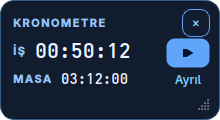
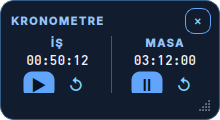
Add split mini controls and desk reset

diff --git a/mola/app.py b/mola/app.py
@@ -70,38 +70,73 @@ class MiniWindow(QWidget):
         self.surface = QFrame()
         self.surface.setObjectName("miniSurface")
         window_layout.addWidget(self.surface)
-        layout = QVBoxLayout(self.surface); layout.setContentsMargins(12,8,9,8); layout.setSpacing(2)
-        row = QHBoxLayout()
+        layout = QVBoxLayout(self.surface); layout.setContentsMargins(10,7,8,7); layout.setSpacing(2)
+        row = QHBoxLayout(); row.setSpacing(4)
         self.mode = label("KRONOMETRE", "eyebrow"); row.addWidget(self.mode); row.addStretch()
         close = button("×", self.close, "link"); close.setAccessibleName("Yüzen pencereyi kapat")
         close.setToolTip("Yalnızca mini pencereyi kapat; sayaç çalışmaya devam eder")
-        close.setFixedSize(28, 28)
+        close.setFixedSize(26, 26)
         row.addWidget(close); layout.addLayout(row)
-        work_row = QHBoxLayout(); work_row.setSpacing(7)
-        self.work_label=label("ÇALIŞMA", "eyebrow"); work_row.addWidget(self.work_label)
-        self.time = label("00:00:00"); self.time.setStyleSheet("font-family: 'Adwaita Mono'; font-size: 28px; font-weight: 600;")
-        work_row.addWidget(self.time,1)
+
+        counters=QHBoxLayout(); counters.setSpacing(7)
+        self.work_panel=QWidget(); work=QVBoxLayout(self.work_panel)
+        work.setContentsMargins(0,0,0,0); work.setSpacing(2)
+        self.work_label=label("ÇALIŞMA", "eyebrow")
+        self.work_label.setAlignment(Qt.AlignmentFlag.AlignCenter); work.addWidget(self.work_label)
+        self.time = label("00:00:00")
+        self.time.setAlignment(Qt.AlignmentFlag.AlignCenter)
+        self.time.setStyleSheet("font-family: 'Adwaita Mono'; font-size: 18px; font-weight: 600;")
+        work.addWidget(self.time)
+        work_actions=QHBoxLayout(); work_actions.setSpacing(5); work_actions.addStretch()
         self.toggle = button("▶", owner.toggle_running, "primary")
         self.toggle.setAccessibleName("Çalışma sayacını başlat veya duraklat")
-        self.toggle.setFixedHeight(30); work_row.addWidget(self.toggle)
-        layout.addLayout(work_row)
-        desk_row = QHBoxLayout(); desk_row.setSpacing(7)
-        self.desk_label=label("MASA", "eyebrow"); desk_row.addWidget(self.desk_label)
-        self.desk_time = label("00:00:00"); self.desk_time.setStyleSheet("font-family: 'Adwaita Mono'; font-size: 18px; font-weight: 600;")
-        desk_row.addWidget(self.desk_time,1)
-        self.desk_toggle = button("Masadayım", owner.toggle_desk, "link")
+        self.toggle.setToolTip("Çalışma sayacını başlat veya duraklat")
+        self.toggle.setFixedSize(32,28); work_actions.addWidget(self.toggle)
+        self.work_reset = button("↺", owner.reset_current, "link")
+        self.work_reset.setAccessibleName("Çalışma sayacını sıfırla")
+        self.work_reset.setToolTip("Seçili çalışma sayacını sıfırla")
+        self.work_reset.setFixedSize(32,28); work_actions.addWidget(self.work_reset)
+        work_actions.addStretch(); work.addLayout(work_actions)
+        counters.addWidget(self.work_panel,1)
+
+        self.divider=QFrame(); self.divider.setObjectName("miniDivider")
+        self.divider.setFrameShape(QFrame.Shape.VLine); self.divider.setFixedWidth(1)
+        counters.addWidget(self.divider)
+
+        self.desk_panel=QWidget(); desk=QVBoxLayout(self.desk_panel)
+        desk.setContentsMargins(0,0,0,0); desk.setSpacing(2)
+        self.desk_label=label("MASA BAŞI", "eyebrow")
+        self.desk_label.setAlignment(Qt.AlignmentFlag.AlignCenter); desk.addWidget(self.desk_label)
+        self.desk_time = label("00:00:00")
+        self.desk_time.setAlignment(Qt.AlignmentFlag.AlignCenter)
+        self.desk_time.setStyleSheet("font-family: 'Adwaita Mono'; font-size: 18px; font-weight: 600;")
+        desk.addWidget(self.desk_time)
+        desk_actions=QHBoxLayout(); desk_actions.setSpacing(5); desk_actions.addStretch()
+        self.desk_toggle = button("▶", owner.toggle_desk, "primary")
         self.desk_toggle.setAccessibleName("Masa başı sayacını başlat veya duraklat")
-        self.desk_toggle.setFixedHeight(28); desk_row.addWidget(self.desk_toggle)
-        layout.addLayout(desk_row)
+        self.desk_toggle.setToolTip("Masa başı sayacını başlat veya duraklat")
+        self.desk_toggle.setFixedSize(32,28); desk_actions.addWidget(self.desk_toggle)
+        self.desk_reset = button("↺", owner.reset_desk, "link")
+        self.desk_reset.setAccessibleName("Masa başı sayacını sıfırla")
+        self.desk_reset.setToolTip("Yalnızca görünen masa başı süresini sıfırla")
+        self.desk_reset.setFixedSize(32,28); desk_actions.addWidget(self.desk_reset)
+        for control in (self.toggle,self.work_reset,self.desk_toggle,self.desk_reset):
+            control.setStyleSheet("padding: 0; font-size: 16px;")
+        desk_actions.addStretch(); desk.addLayout(desk_actions)
+        counters.addWidget(self.desk_panel,1)
+        layout.addLayout(counters,1)
+
         row = QHBoxLayout()
-        self.state = label("Hazır", "muted"); row.addWidget(self.state); row.addStretch()
+        self.state = label("Hazır", "muted"); self.state.hide(); row.addStretch()
         self.grip = QSizeGrip(self.surface)
         self.grip.setAccessibleName("Mini pencereyi boyutlandır")
         self.grip.setToolTip("Küçültmek veya büyütmek için sürükle")
         row.addWidget(self.grip, 0, Qt.AlignmentFlag.AlignRight | Qt.AlignmentFlag.AlignBottom)
         layout.addLayout(row)
         self.setToolTip("Mini sayaç diğer uygulamaların üstünde kalır. Boş bir alandan sürükleyerek taşı.")
-        for draggable in (self.surface, self.mode, self.time, self.desk_time, self.state):
+        for draggable in (self.surface, self.mode, self.work_panel, self.work_label,
+                          self.time, self.desk_panel, self.desk_label,
+                          self.desk_time, self.divider):
             draggable.installEventFilter(self)
         self.resize(*initial_size)
 
@@ -115,19 +150,11 @@ class MiniWindow(QWidget):
 
     def resizeEvent(self, event):
         width = event.size().width()
-        font_size = 20 if width < 260 else 24 if width < 340 else 28
-        self.time.setStyleSheet(
-            f"font-family: 'Adwaita Mono'; font-size: {font_size}px; font-weight: 600;"
-        )
-        desk_font = 14 if width < 260 else 16 if width < 340 else 18
-        self.desk_time.setStyleSheet(
-            f"font-family: 'Adwaita Mono'; font-size: {desk_font}px; font-weight: 600;"
-        )
-        self.state.setVisible(width >= 275 and event.size().height() >= 155)
-        compact = width < 260
-        self.work_label.setText("İŞ" if compact else "ÇALIŞMA")
-        self.toggle.setFixedWidth(44 if compact else 105)
-        self.desk_toggle.setFixedWidth(44 if compact else 105)
+        font_size = 13 if width < 260 else 16 if width < 380 else 20
+        timer_style=f"font-family: 'Adwaita Mono'; font-size: {font_size}px; font-weight: 600;"
+        self.time.setStyleSheet(timer_style); self.desk_time.setStyleSheet(timer_style)
+        self.work_label.setText("İŞ" if width < 250 else "ÇALIŞMA")
+        self.desk_label.setText("MASA" if width < 250 else "MASA BAŞI")
         self.owner.preferences["mini_size"] = [event.size().width(), event.size().height()]
         super().resizeEvent(event)
 
@@ -141,11 +168,14 @@ class MiniWindow(QWidget):
         self.time.setText(clock_text(e.stopwatch_elapsed if e.mode=="stopwatch" else math.ceil(e.timer_remaining)))
         self.desk_time.setText(clock_text(e.desk_elapsed))
         self.state.setText("Mola zamanı" if e.state=="break" else "Çalışıyorsun" if e.state=="running" else "Duraklatıldı" if e.state=="paused" else "Başlamaya hazır")
-        wide = self.width() >= 330
-        self.toggle.setText(("Ⅱ  Duraklat" if e.state=="running" else "▶  Başlat") if wide else ("Ⅱ" if e.state=="running" else "▶"))
-        self.desk_toggle.setText(("Masadan ayrıl" if e.desk_active else "Masadayım") if wide else ("Ayrıl" if e.desk_active else "Masa"))
+        self.toggle.setText("Ⅱ" if e.state=="running" else "▶")
+        self.toggle.setToolTip("Çalışmayı duraklat" if e.state=="running" else "Çalışmayı başlat")
+        self.desk_toggle.setText("Ⅱ" if e.desk_active else "▶")
+        self.desk_toggle.setToolTip("Masadan ayrıl" if e.desk_active else "Masa başı sayacını başlat")
         self.toggle.setEnabled(e.state!="break")
         self.desk_toggle.setEnabled(e.state!="break")
+        self.work_reset.setEnabled(e.state!="break")
+        self.desk_reset.setEnabled(e.state!="break" and e.desk_elapsed>0)
 
 
 class SettingsWidget(QWidget):
@@ -318,7 +348,11 @@ class Window(QMainWindow):
         desk=QVBoxLayout(); desk.addWidget(label("MASA BAŞI", "eyebrow")); self.desk_time=label("00:00:00", "sectionTitle"); desk.addWidget(self.desk_time)
         self.desk_button=button("Masadayım",self.toggle_desk,"link")
         self.desk_button.setToolTip("Masa başı hatırlatmalarını çalışma sayacından bağımsız başlat veya durdur")
-        desk.addWidget(self.desk_button,alignment=Qt.AlignmentFlag.AlignLeft)
+        self.desk_reset=button("Sıfırla",self.reset_desk,"link")
+        self.desk_reset.setToolTip("Yalnızca görünen masa başı süresini sıfırla; hatırlatma ritmi korunur")
+        desk_actions=QHBoxLayout(); desk_actions.setSpacing(2)
+        desk_actions.addWidget(self.desk_button); desk_actions.addWidget(self.desk_reset)
+        desk.addLayout(desk_actions)
         stats.addLayout(left,2); stats.addLayout(middle,1); stats.addLayout(desk,2); box.addLayout(stats)
         columns.addWidget(focus,3)
         right=QVBoxLayout(); right.setSpacing(16)
@@ -414,6 +448,7 @@ class Window(QMainWindow):
         self.desk_time.setText(clock_text(e.desk_elapsed))
         self.desk_button.setText("Masadan ayrıl" if e.desk_active else "Masadayım")
         self.desk_button.setEnabled(e.state!="break")
+        self.desk_reset.setEnabled(e.state!="break" and e.desk_elapsed>0)
         self.today.setText(human_time(e.today_work)); self.breaks.setText(str(e.break_count))
         self.goal_remaining.setText(clock_text(math.ceil(e.remaining_goal)) if e.goal_enabled else human_time(math.ceil(e.remaining_goal/60)*60))
         self.goal_caption.setText("hedefin tamamlandı" if e.remaining_goal<=0 else "hedefine kalan süre / "+human_time(e.goal_seconds))
@@ -440,6 +475,10 @@ class Window(QMainWindow):
 
     def toggle_desk(self):
         self.engine.toggle_desk()
+        self.pulse(); self.save()
+
+    def reset_desk(self):
+        self.engine.reset_desk_elapsed()
         self.pulse(); self.save()
 
     def change_mode(self,mode):

diff --git a/tests/test_integration.py b/tests/test_integration.py
@@ -9,7 +9,7 @@ from unittest.mock import Mock, patch
 os.environ.setdefault("QT_QPA_PLATFORM", "offscreen")
 
 from PySide6.QtCore import QCoreApplication, QEvent, QTime, Qt, QTimer
-from PySide6.QtWidgets import QApplication, QDialog, QPushButton
+from PySide6.QtWidgets import QApplication, QDialog, QFrame, QPushButton
 
 from mola.app import Window
 from mola.engine import Engine
@@ -224,6 +224,57 @@ class SessionDialogTests(unittest.TestCase):
         self.window.change_mode("timer")
         self.window.open_mini()
         self.assertEqual(mini.mode.text(), "ZAMANLAYICI")
+
+    def test_desk_reset_button_clears_only_visible_desk_time(self):
+        self.window.toggle_running()
+        self.work(12)
+        self.window.toggle_running()
+        before = self.engine.snapshot()
+        self.assertEqual(self.engine.desk_elapsed, 12)
+        self.assertTrue(self.window.desk_reset.isEnabled())
+
+        self.window.desk_reset.click()
+
+        self.assertEqual(self.engine.desk_elapsed, 0)
+        self.assertEqual(self.engine.today_work, before["today_work"])
+        self.assertEqual(self.engine.total_work, before["total_work"])
+        self.assertEqual(self.engine.stopwatch_elapsed, before["stopwatch_elapsed"])
+        self.assertEqual(self.engine.since_eye, before["since_eye"])
+        self.assertEqual(self.engine.since_movement, before["since_movement"])
+        self.assertEqual(self.engine.state, before["state"])
+        self.assertEqual(self.engine.desk_active, before["desk_active"])
+        self.assertEqual(self.window.desk_time.text(), "00:00:00")
+        self.assertEqual(self.store.data["engine"]["desk_elapsed"], 0)
+        self.assertFalse(self.window.desk_reset.isEnabled())
+
+    def test_mini_is_split_side_by_side_with_icon_only_counter_controls(self):
+        self.window.open_mini()
+        mini = self.window.mini
+        mini.resize(300, 145)
+        self.app.processEvents()
+
+        self.assertEqual(mini.divider.frameShape(), QFrame.Shape.VLine)
+        self.assertTrue(mini.divider.isVisible())
+        self.assertLess(mini.work_panel.geometry().center().x(), mini.divider.geometry().center().x())
+        self.assertLess(mini.divider.geometry().center().x(), mini.desk_panel.geometry().center().x())
+        self.assertGreater(mini.work_panel.geometry().height(), 0)
+        self.assertGreater(mini.desk_panel.geometry().height(), 0)
+
+        for control in (mini.toggle, mini.work_reset, mini.desk_toggle, mini.desk_reset):
+            with self.subTest(control=control.accessibleName()):
+                self.assertNotIn(control.text(), ("Başlat", "Duraklat", "Masadayım", "Masadan ayrıl"))
+                self.assertTrue(control.accessibleName())
+                self.assertLessEqual(len(control.text()), 2)
+
+        mini.toggle.click()
+        self.work(2)
+        self.assertEqual(self.engine.stopwatch_elapsed, 2)
+        self.assertEqual(self.engine.desk_elapsed, 2)
+        mini.desk_toggle.click()
+        self.assertFalse(self.engine.desk_active)
+        self.assertEqual(self.engine.state, "paused")
+        mini.desk_reset.click()
+        self.assertEqual(self.engine.desk_elapsed, 0)
 
     def test_work_pause_keeps_desk_cadence_until_explicit_desk_pause(self):
         self.engine.movement_interval = 60

diff --git a/mola/theme.py b/mola/theme.py
@@ -27,6 +27,7 @@ QLabel#error { color: #ffb5a3; background: #3e2823; padding: 10px; border-radius
 QFrame#card { background: #111c2e; border: 1px solid #233550; border-radius: 18px; }
 QFrame#softCard { background: #142a47; border: 1px solid #28476c; border-radius: 16px; }
 QFrame#miniSurface { background: #111c2e; border: 1px solid #355d83; border-radius: 14px; }
+QFrame#miniDivider { background: #355d83; border: none; min-width: 1px; max-width: 1px; }
 QFrame#separator { background: #263a55; max-height: 1px; }
 QPushButton { background: #172740; border: 1px solid transparent; padding: 10px 16px; border-radius: 9px; font-weight: 600; }
 QPushButton:hover { background: #1e3554; }

diff --git a/README.md b/README.md
@@ -33,6 +33,7 @@ A timer can measure a session, but it does not usually help with the surrounding
 - Timee keeps desk-presence time separate from stopwatch/countdown work time.
 - Starting focused work also marks the user as present at the desk, but pausing work does not pause or reset desk presence. A ten-minute nonworking pause at the desk therefore remains part of the reminder cadence.
 - Use the dedicated desk control when actually leaving or returning to the desk. Desk-away time advances neither eye nor movement reminders.
+- Use the desk counter's **Reset** control to return only its visible daily elapsed value to zero. Focused-work totals, stopwatch/countdown values, and eye/movement reminder cadence are preserved.
 - Eye and movement reminders use desk-presence time, while the daily work target and “today focused” total continue to use active work time only.
 - Desk and work controls are available independently in both the main window and mini timer.
 
@@ -41,8 +42,9 @@ A timer can measure a session, but it does not usually help with the surrounding
 - Open a compact floating view for either timer mode.
 - Drag the frameless surface to reposition it.
 - Resize it from the lower-right corner between `220 × 120` and `640 × 360` pixels; its last size is restored the next time it opens.
-- View both the selected work counter and desk-presence counter.
-- Start or pause work and change desk presence independently from the mini window.
+- View the selected work counter and desk-presence counter in equal side-by-side panes separated by a vertical divider.
+- Use the icon-only play/pause control in each pane to operate work and desk presence independently; textual action buttons are not shown in the mini view.
+- The compact icon controls retain descriptive accessible names and tooltips for keyboard and assistive-technology users.
 - Close only the mini window while leaving the timer and main application running.
 - No operating-system title bar, minimize button, or window close button is shown; the mini view uses its own compact controls.
 - On KDE Plasma, an exact-title KWin rule for `Timee · Mini sayaç` keeps only the Timee mini timer in the overlay layer, including above full-screen applications, and remembers its position.
@@ -359,6 +361,7 @@ The tests cover:
 - work-only accounting, daily target boundaries, and baseline-only goal-progress resets;
 - simultaneous and near-simultaneous reminders;
 - independently controlled work and desk-presence counters;
+- visible desk-counter resets that preserve work totals and reminder cadence;
 - completed, snoozed, acknowledged, skipped, closed, and manually opened break flows;
 - work pauses that preserve desk-based reminder cadence;
 - persisted reminder state without inferred offline work or desk time;
@@ -366,7 +369,7 @@ The tests cover:
 - system-suspend gaps and configurable 05:00-default day rollover;
 - save and restore behavior;
 - legacy Mola-to-Timee state migration;
-- mini-window controls sharing the main session;
+- split mini-window controls sharing the main session;
 - planner validation and overlap rules;
 - Unicode persistence, damaged files, and failed atomic replacement.
 
@@ -382,7 +385,7 @@ Offscreen Qt tests cannot prove real compositor stacking behavior. On KDE Plasma
 - The calm two-tone reminder cue is enabled by default and has its own setting.
 - Completion sound is optional and disabled by default.
 - Exercise instructions are available without relying on color alone.
-- The mini window retains explicit work, desk-presence, and close controls at compact sizes.
+- The mini window retains explicit icon-only work, desk-presence, and close controls at compact sizes; accessible names and tooltips provide the text equivalents.
 
 Timee has not yet undergone a formal WCAG or assistive-technology conformance audit. Accessibility feedback and platform-specific testing are welcome once a contribution policy and license are established.
 
